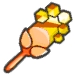
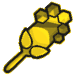
Updated images for consistency, created my own rematch badges

diff --git a/src/tpp-data.ts b/src/tpp-data.ts
@@ -2927,14 +2927,14 @@ var tppData: TPP.Collection[] = [
             {
                 RunName: "Anniversary Crystal",
                 StartDate: "2016-02-14T21:00:00Z",
-                Duration: "20d",
+                Duration: "40d",
                 Ongoing: true,
                 ColorPrimary: "#008bff",
                 ColorSecondary: "#0021b4",
-                //HostImage: "img/hosts/evan.png",
-                //HostImageSource: "https://www.reddit.com/r/twitchplayspokemon/comments/46elnh/evan_sprites/",
-                HostImage: "img/hosts/evan.gif",
-                HostImageSource: "https://www.reddit.com/r/twitchplayspokemon/comments/46f9vw/evan_our_lethargic_protagonist_animated/",
+                HostImage: "img/hosts/evan.png",
+                HostImageSource: "https://www.reddit.com/r/twitchplayspokemon/comments/46elnh/evan_sprites/",
+                // HostImage: "img/hosts/evan.gif",
+                // HostImageSource: "https://www.reddit.com/r/twitchplayspokemon/comments/46f9vw/evan_our_lethargic_protagonist_animated/",
                 HostName: "EVAN",
                 Region: "Kanto, Johto",
                 DexTotal: 251,
@@ -2948,8 +2948,9 @@ var tppData: TPP.Collection[] = [
                     {
                         Group: "Champions",
                         Name: "AZURE",
-                        Image: "img/trainers/crystal/azure.gif",
-                        ImageSource: "https://www.reddit.com/r/twitchplayspokemon/comments/46gsoo/azure_our_perky_exrival_animated/",
+                        Image: "img/trainers/crystal/azure.png",
+                        // Image: "img/trainers/crystal/azure.gif",
+                        // ImageSource: "https://www.reddit.com/r/twitchplayspokemon/comments/46gsoo/azure_our_perky_exrival_animated/",
                         Time: "12d 4h 25m",
                         Attempts: 2
                     },
@@ -2984,19 +2985,17 @@ var tppData: TPP.Collection[] = [
                         Image: "img/hosts/ajdnnw.png",
                         Time: "18d 19h 11m"
                     },
-                    
-                    {"Name":"Yanma","Time":"17d 1h 38m","Group":"Pokemon"},
-                    {"Name":"Scizor","Time":"17d 1h 43m","Group":"Pokemon"},
-                    {"Name":"Metapod","Time":"17d 2h 5m","Group":"Pokemon"},
-                    {"Name":"Heracross","Time":"17d 3h 1m","Group":"Pokemon"},
-                    {"Name":"Venomoth","Time":"17d 5h 59m","Group":"Pokemon"},
-                    {"Name":"Butterfree","Time":"17d 6h 4m","Group":"Pokemon"},
-                    {"Name":"Pinsir","Time":"17d 6h 26m","Group":"Pokemon"},
-                    {"Name":"Ledian","Time":"17d 6h 48m","Group":"Pokemon"},
-                    {"Name":"Paras","Time":"4d 15h 11m","Group":"Pokemon"},
-                    {"Name":"Ledyba","Time":"4d 15h 41m","Group":"Pokemon"},                   
 
-                    {"Name":"Rhydon","Time":"21d 18h 13m","Group":"Pokemon"},                   
+                    { "Name": "Yanma", "Time": "17d 1h 38m", "Group": "Pokemon" },
+                    { "Name": "Scizor", "Time": "17d 1h 43m", "Group": "Pokemon" },
+                    { "Name": "Metapod", "Time": "17d 2h 5m", "Group": "Pokemon" },
+                    { "Name": "Heracross", "Time": "17d 3h 1m", "Group": "Pokemon" },
+                    { "Name": "Venomoth", "Time": "17d 5h 59m", "Group": "Pokemon" },
+                    { "Name": "Butterfree", "Time": "17d 6h 4m", "Group": "Pokemon" },
+                    { "Name": "Pinsir", "Time": "17d 6h 26m", "Group": "Pokemon" },
+                    { "Name": "Ledian", "Time": "17d 6h 48m", "Group": "Pokemon" },
+                    { "Name": "Paras", "Time": "4d 15h 11m", "Group": "Pokemon" },
+                    { "Name": "Ledyba", "Time": "4d 15h 41m", "Group": "Pokemon" },
                 ]
             }
         ]

diff --git a/bin/tpp-data.js b/bin/tpp-data.js
@@ -2887,12 +2887,12 @@ var tppData = [
             {
                 RunName: "Anniversary Crystal",
                 StartDate: "2016-02-14T21:00:00Z",
-                Duration: "20d",
+                Duration: "40d",
                 Ongoing: true,
                 ColorPrimary: "#008bff",
                 ColorSecondary: "#0021b4",
-                HostImage: "img/hosts/evan.gif",
-                HostImageSource: "https://www.reddit.com/r/twitchplayspokemon/comments/46f9vw/evan_our_lethargic_protagonist_animated/",
+                HostImage: "img/hosts/evan.png",
+                HostImageSource: "https://www.reddit.com/r/twitchplayspokemon/comments/46elnh/evan_sprites/",
                 HostName: "EVAN",
                 Region: "Kanto, Johto",
                 DexTotal: 251,
@@ -2906,8 +2906,7 @@ var tppData = [
                     {
                         Group: "Champions",
                         Name: "AZURE",
-                        Image: "img/trainers/crystal/azure.gif",
-                        ImageSource: "https://www.reddit.com/r/twitchplayspokemon/comments/46gsoo/azure_our_perky_exrival_animated/",
+                        Image: "img/trainers/crystal/azure.png",
                         Time: "12d 4h 25m",
                         Attempts: 2
                     },
@@ -2948,7 +2947,6 @@ var tppData = [
                     { "Name": "Ledian", "Time": "17d 6h 48m", "Group": "Pokemon" },
                     { "Name": "Paras", "Time": "4d 15h 11m", "Group": "Pokemon" },
                     { "Name": "Ledyba", "Time": "4d 15h 41m", "Group": "Pokemon" },
-                    { "Name": "Rhydon", "Time": "21d 18h 13m", "Group": "Pokemon" },
                 ]
             }
         ]

diff --git a/src/tpp-scraper.ts b/src/tpp-scraper.ts
@@ -108,7 +108,7 @@ function TppOrgApi(run: TPP.Run, deferred: JQueryDeferred<TPP.Run>) {
             Name: b.name + " Badge",
             Time: b.time,
             Attempts: b.attempts,
-            Image: "img/badges/" + b.name.toLowerCase() + ".png"
+            Image: "img/badges/" + (b.region.toLowerCase().indexOf("rematch") >= 0 ? "rematch/" : "") + b.name.toLowerCase() + ".png"
         })))
     ));
     if (run.Scraper.parts.indexOf("Elite Four") >= 0) promises.push($.get("http://api.twitchplayspokemon.org/v1/elite-four").then((api: TPP.Org.V1.EliteFour) =>

diff --git a/bin/tpp-scraper.js b/bin/tpp-scraper.js
@@ -109,7 +109,7 @@ function TppOrgApi(run, deferred) {
                 Name: b.name + " Badge",
                 Time: b.time,
                 Attempts: b.attempts,
-                Image: "img/badges/" + b.name.toLowerCase() + ".png"
+                Image: "img/badges/" + (b.region.toLowerCase().indexOf("rematch") >= 0 ? "rematch/" : "") + b.name.toLowerCase() + ".png"
             }); }));
         }));
     if (run.Scraper.parts.indexOf("Elite Four") >= 0)
